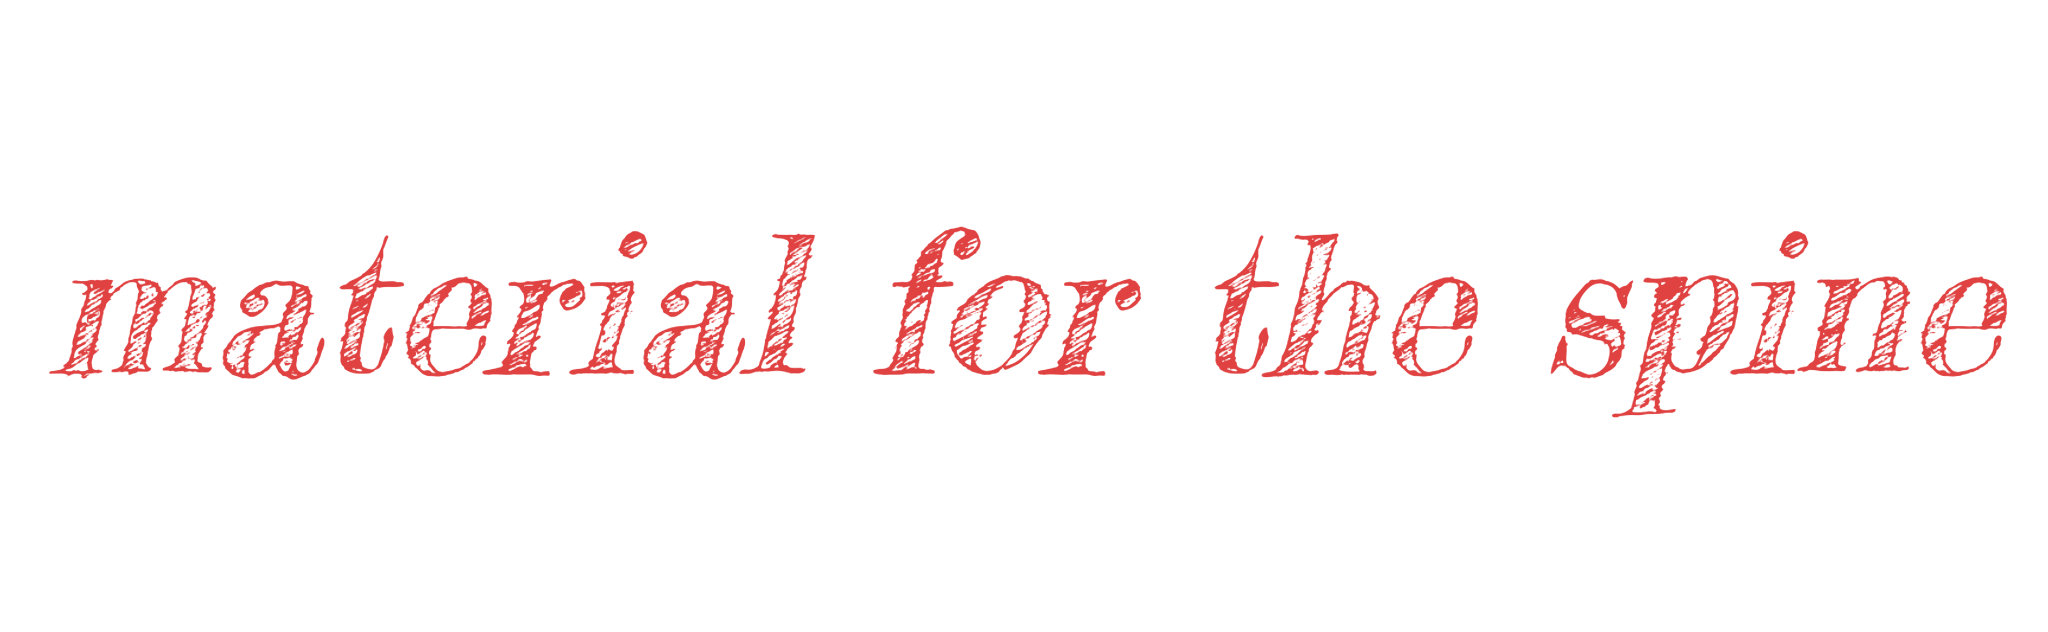
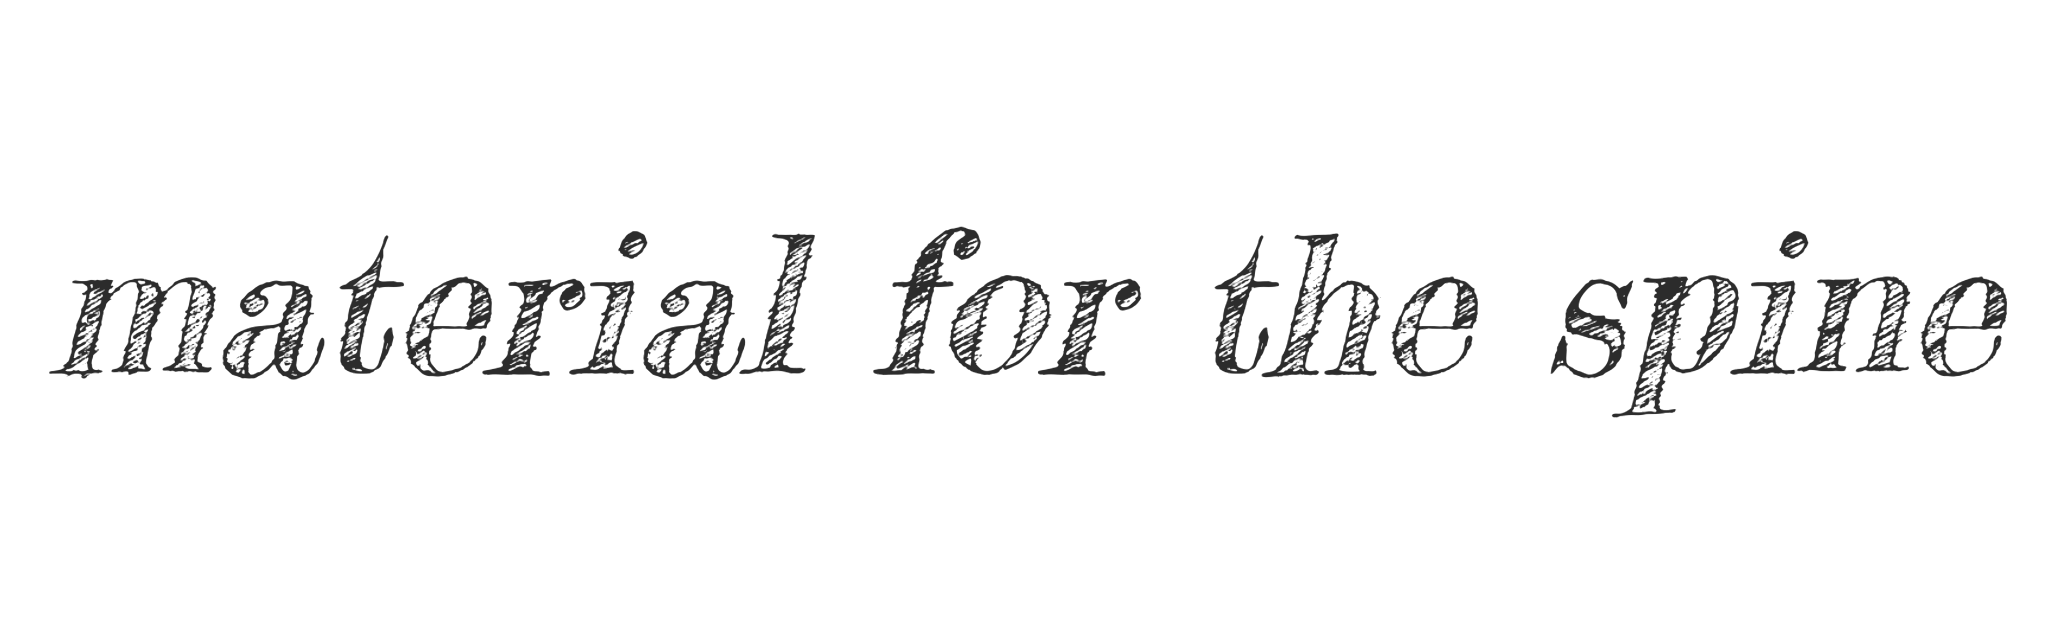
Updated README

diff --git a/README.md b/README.md
@@ -1,10 +1,11 @@
+![Material for the spine](./docs/images/material-for-the-spine.png)
+
 [![Build Status](https://travis-ci.org/contredanse/mfts.svg?branch=master)](https://travis-ci.org/contredanse/mfts)
 [![codecov](https://codecov.io/gh/contredanse/mfts/branch/master/graph/badge.svg)](https://codecov.io/gh/contredanse/mfts)
 [![tested with jest](https://img.shields.io/badge/tested_with-jest-99424f.svg)](https://github.com/facebook/jest)
 [![styled with prettier](https://img.shields.io/badge/styled_with-prettier-ff69b4.svg)](https://github.com/prettier/prettier)
 
-![Material for the spine](./docs/images/material-for-the-spine.png)                                                                                                                                                                                         
-
+# Webapp 
 
 ### Acknowledgments
 
